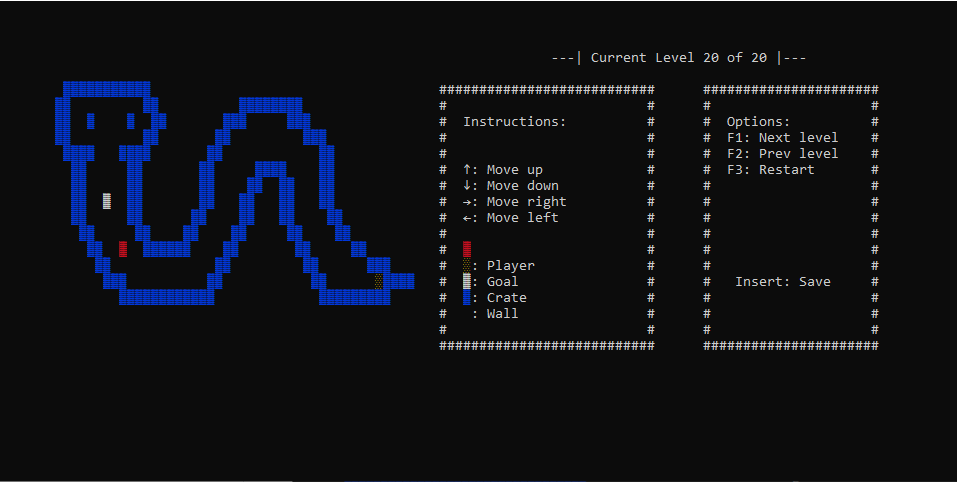
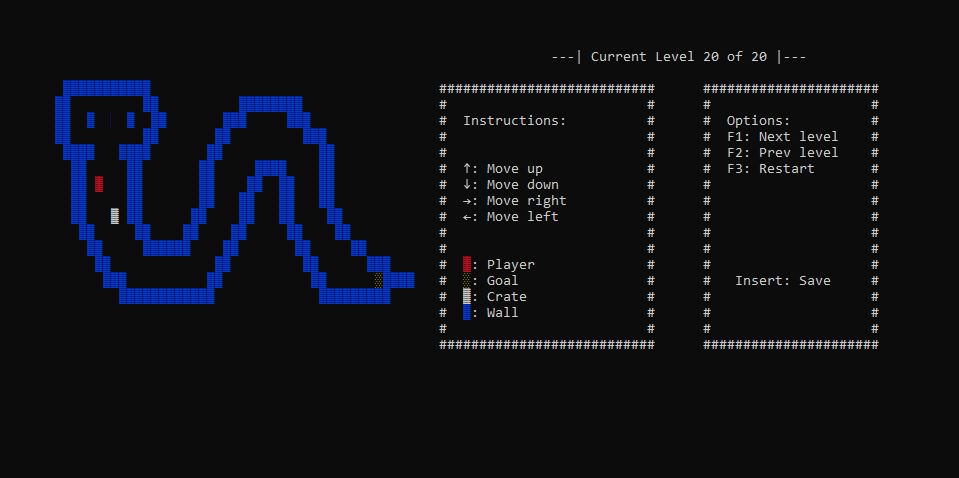
fixed cell misplacement in instruction panel

diff --git a/game/player.go b/game/player.go
@@ -9,22 +9,22 @@ func (player *Player) Draw(screen *tl.Screen) {
 	// Instructions:
 
 	/// Player
-	screen.RenderCell(58, 15, &tl.Cell{
+	screen.RenderCell(58, 16, &tl.Cell{
 		Fg: tl.ColorRed,
 		Ch: '▓',
 	})
 	/// Goal
-	screen.RenderCell(58, 16, &tl.Cell{
+	screen.RenderCell(58, 17, &tl.Cell{
 		Fg: tl.ColorYellow,
 		Ch: '░',
 	})
 	/// Crate
-	screen.RenderCell(58, 17, &tl.Cell{
+	screen.RenderCell(58, 18, &tl.Cell{
 		Fg: tl.ColorWhite,
 		Ch: '▓',
 	})
 	/// Border
-	screen.RenderCell(58, 18, &tl.Cell{
+	screen.RenderCell(58, 19, &tl.Cell{
 		Fg: tl.ColorBlue,
 		Ch: '▓',
 	})
